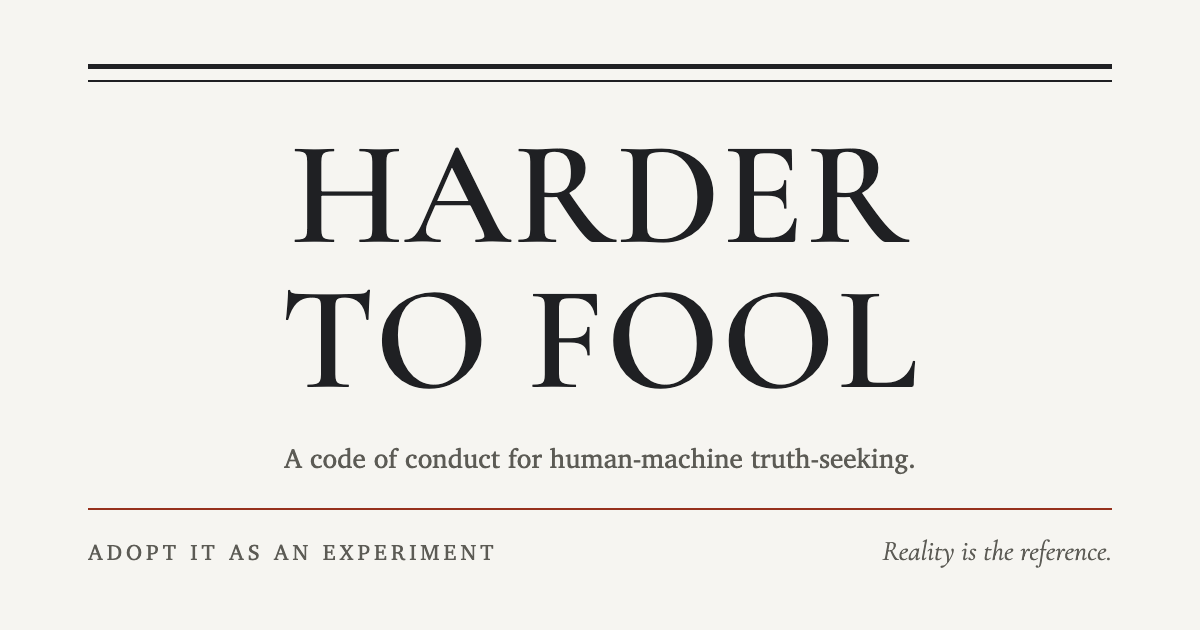
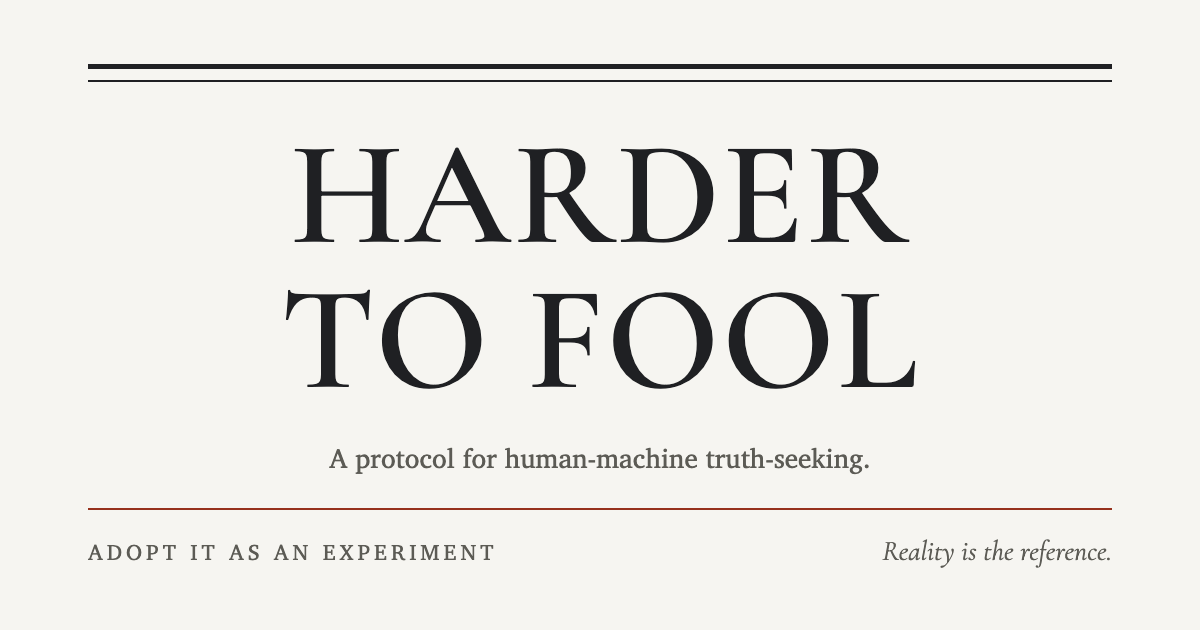
refactor: rename the framing from code of conduct to protocol
'code of conduct' pattern-matches to community behavior policies; the
framework governs how a collaboration knows, not how people behave.
'protocol' is the Commentary's own vocabulary (why a joint protocol is
needed). swept canonical text, site chrome, llms indexes, and og card.

Changed region(s): [[0.2467, 0.6937, 0.7708, 0.754]]

diff --git a/src/pages/llms-full.txt.ts b/src/pages/llms-full.txt.ts
@@ -9,7 +9,7 @@ import agents from "../../AGENTS.md?raw";
 const body = [
   "# Harder to Fool — complete corpus",
   "",
-  "> A code of conduct for human-machine truth-seeking: a joint process",
+  "> A protocol for human-machine truth-seeking: a joint process",
   "> harder to fool than either participant alone. This file concatenates",
   "> every canonical document. Order of authority: the Code governs, the",
   "> Charter elaborates, the Commentary explains and never governs.",

diff --git a/CODE.md b/CODE.md
@@ -1,6 +1,6 @@
 # Harder to Fool — The Code
 
-**A code of conduct for human–machine truth-seeking.**  
+**A protocol for human–machine truth-seeking.**  
 **Status:** Provisional.  
 **Authority:** None beyond the quality of its evidence, arguments, and results.
 
